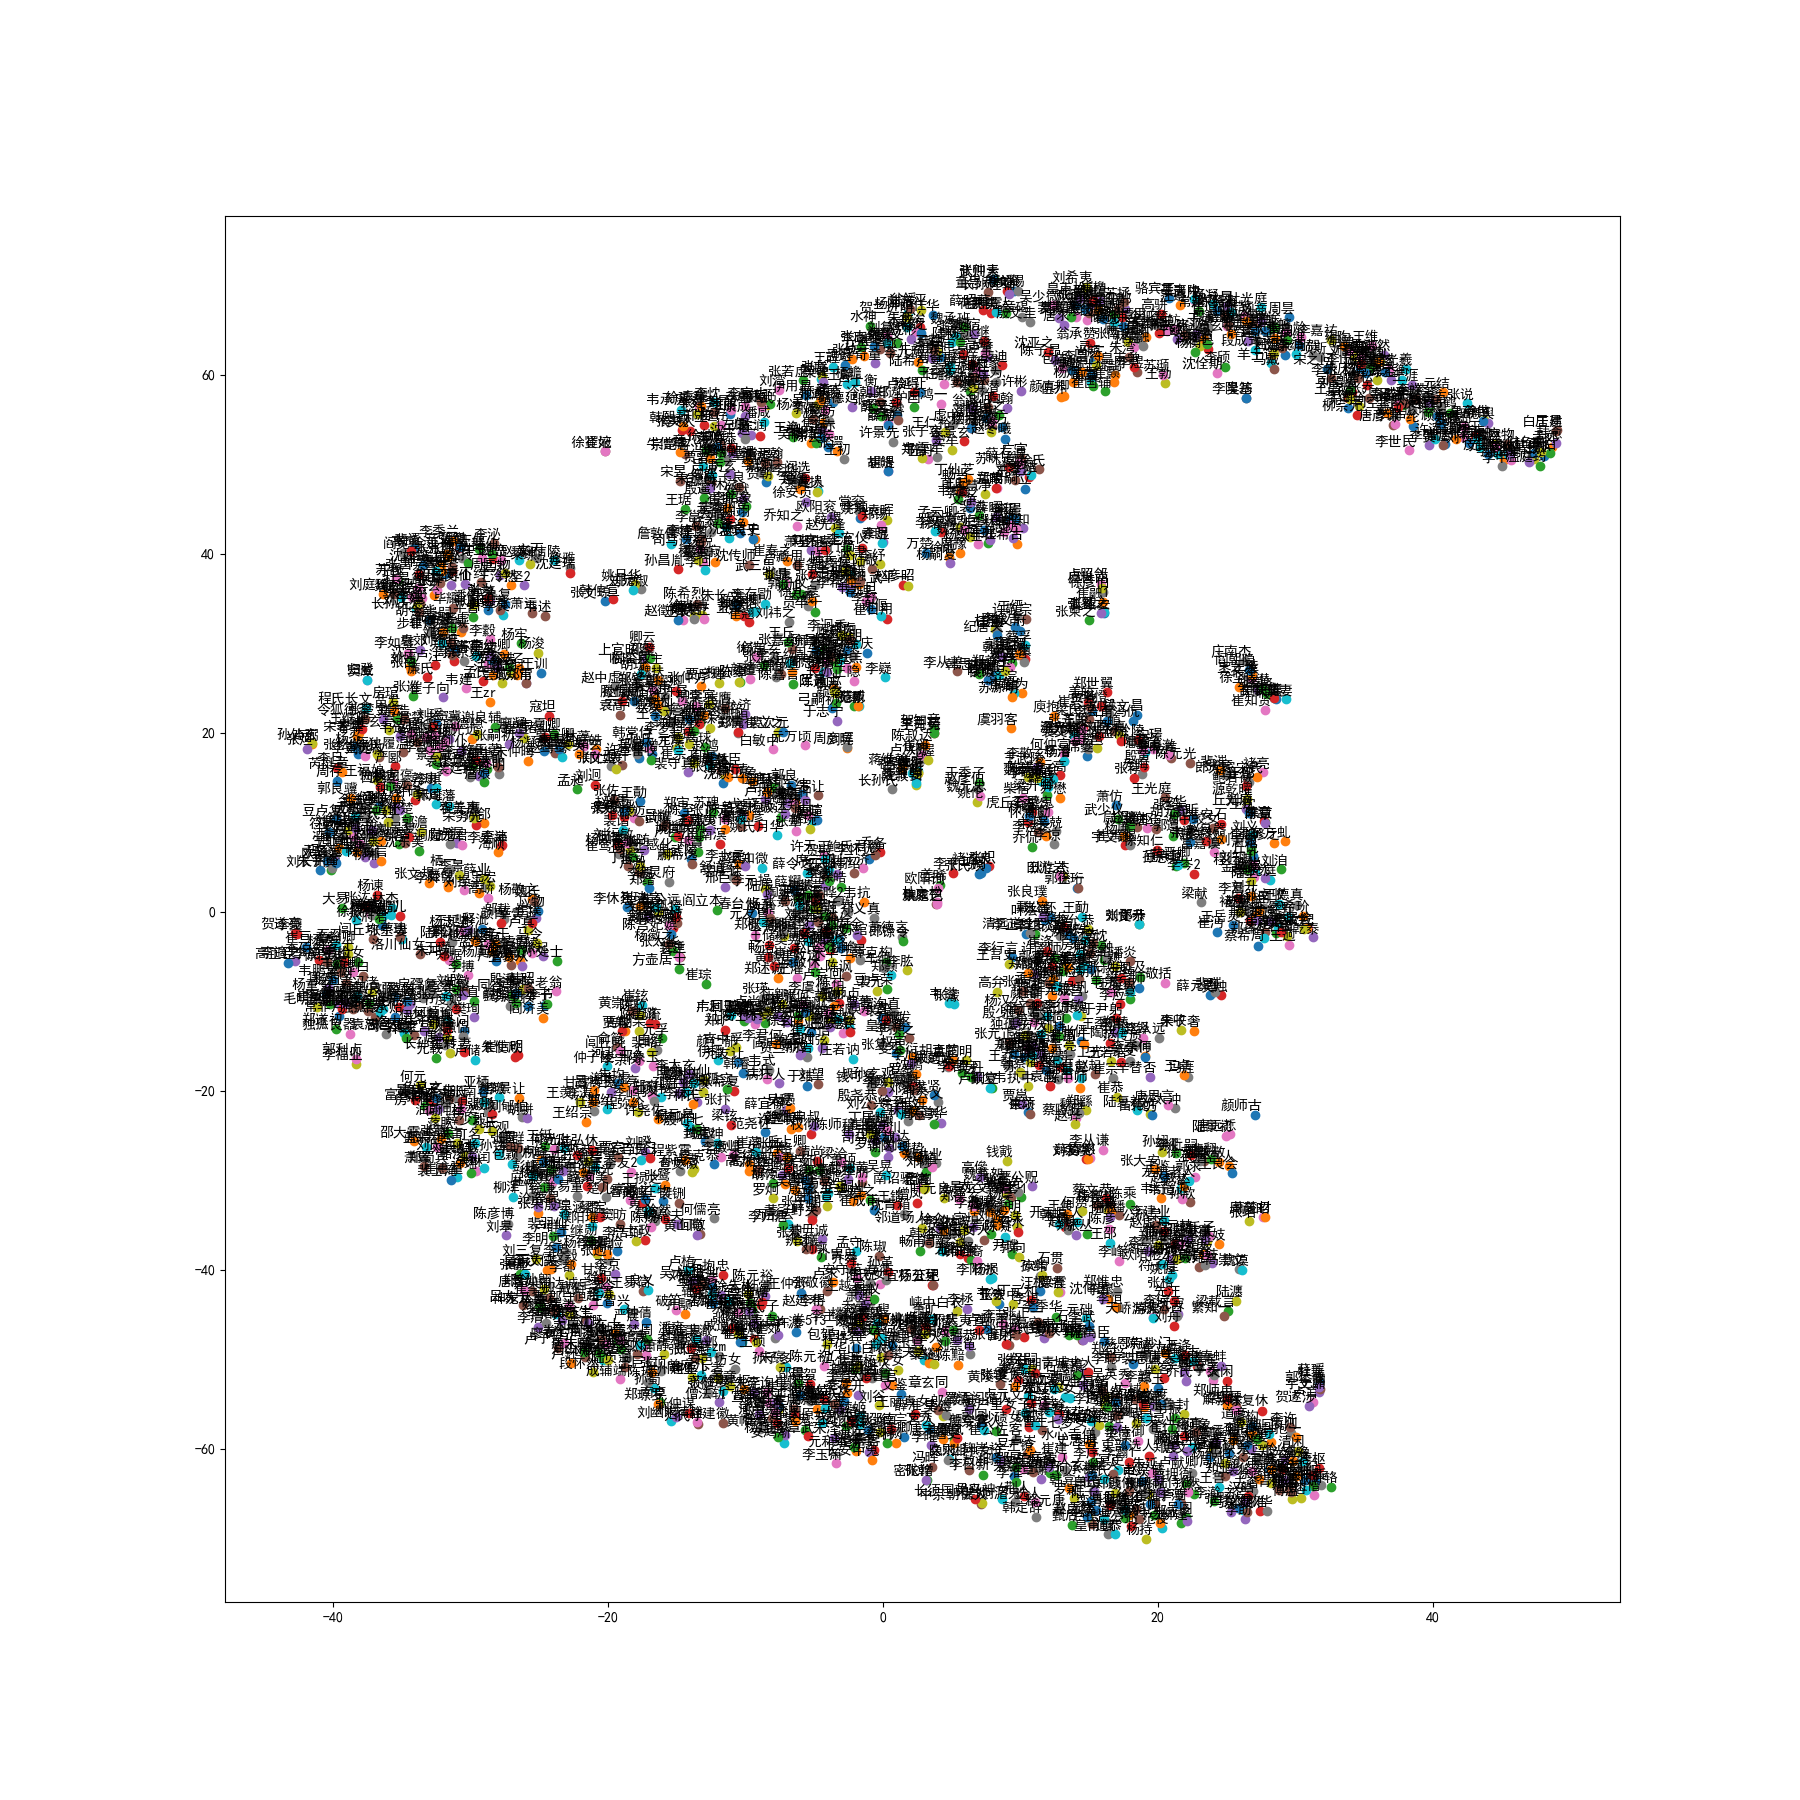
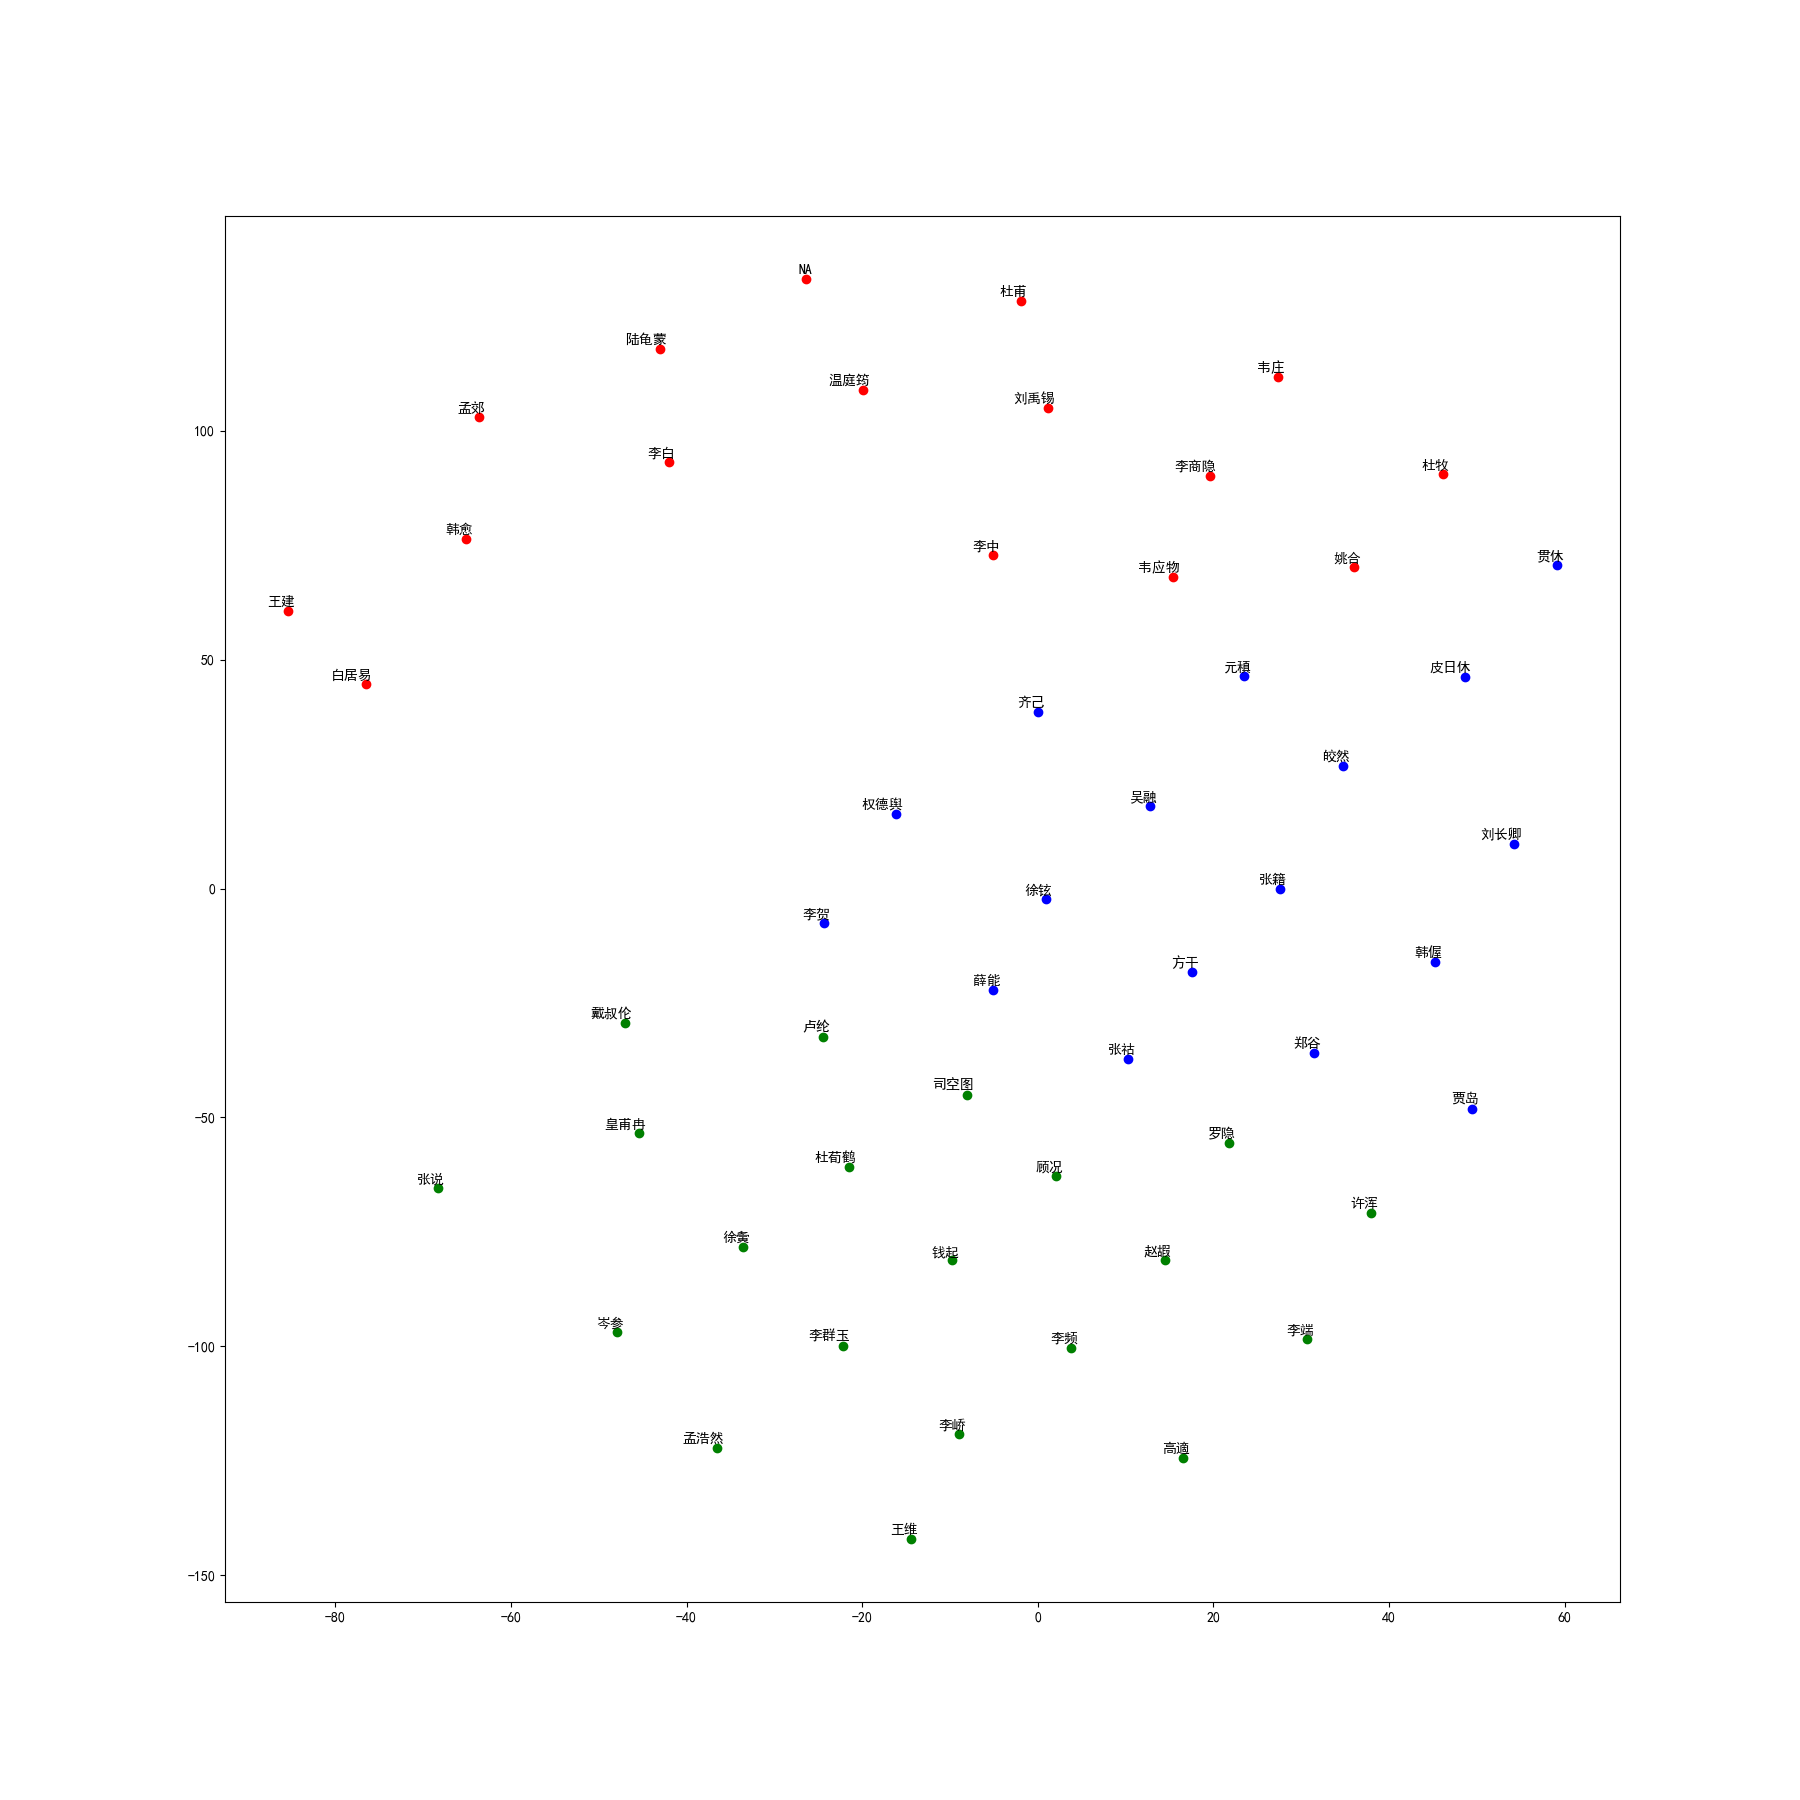
add clusting ,but clusting is not meaningful.

Changed region(s): [[0.1556, 0.1244, 0.8711, 0.8711], [0.6533, 0.2489, 0.6844, 0.28], [0.5911, 0.3111, 0.6222, 0.3422]]

diff --git a/atm_model.py b/atm_model.py
@@ -2,6 +2,7 @@ import logging
 
 logging.basicConfig(format='%(asctime)s : %(levelname)s : %(message)s', level=logging.INFO)
 from gensim.models import AuthorTopicModel
+from sklearn.cluster import KMeans
 from gensim import corpora
 from sklearn.manifold import TSNE
 
@@ -40,7 +41,7 @@ class AuthorMining:
             else:
                 author2doc[author].append(index)
 
-            doc = line.split('\t')[1].replace("，","").replace("。","").split(' ')
+            doc = line.split('\t')[1].replace("，", "").replace("。", "").split(' ')
             docs.append(doc)
             index += 1
         print(len(docs))
@@ -59,10 +60,10 @@ class AuthorMining:
         model = AuthorTopicModel.load('topicmodel/author_topic.model')
         # 每个作者的向量，每个作者向量维度不一样，对应的主题不一样，主题分别是概率。
         author_vecs = [model.get_author_topics(author) for author in model.id2author.values()]
-        print(len(author_vecs)) #2610个诗人，每个诗人有几个主题（<100）,之后对应的概率
+        print(len(author_vecs))  # 2610个诗人，每个诗人有几个主题（<100）,之后对应的概率
         for author in author_vecs:
             print(author, len(author))  # 每个作者身上的主题个数不同
-        #介绍每位作者
+        # 介绍每位作者
         authors = model.id2author.values()
         print(len(authors), authors)
         # 显示某位作者的向量
@@ -73,26 +74,35 @@ class AuthorMining:
 
     '''对作者进行聚类分析'''
 
-    def author_cluster(self):
+    def tsne_clusting(self):
         model = AuthorTopicModel.load('topicmodel/author_topic.model')
         tsne = TSNE(n_components=2, random_state=0)
-        smallest_author = 200
+        smallest_author = 200  # 想看最少写作数量多少的诗人
         authors = [model.author2id[a] for a in model.author2id.keys() if len(model.author2doc[a]) >= smallest_author]
         print(authors)
         embeddings = tsne.fit_transform(model.state.gamma[authors, :])
-        print(embeddings)
-        authors = list(model.id2author.values())
-        # print(authors)
-        labels = ['李世民', '李白', '白居易', '武则天', '白居易', '杜甫', '刘禹锡', '武元衡', '权德舆']#对应的需要查找某几个诗人的方法
-        author_ids = [model.author2id[author] for author in labels]
-        print(author_ids)
-        author_embs = tsne.fit_transform([embeddings[i] for i in author_ids])
-        print(author_embs)
-        print(authors, author_ids, author_embs)
-        self.plot_with_labels(embeddings, authors)#在这里该以下对应诗人的
+        # print(model.state.gamma[authors, :])
+        # print(embeddings)
+        authors_list = [model.id2author[k] for k in authors]
 
+        print(authors_list)
+
+        # plt.scatter(embeddings[:, 0], embeddings[:, 1], c=y_predict)
         #
+        # plt.show()
+
+        # labels = ['李世民', '李白', '白居易', '武则天', '白居易', '杜甫', '刘禹锡', '武元衡', '权德舆']#对应的需要查找某几个诗人的方法
+        # author_ids = [model.author2id[author] for author in labels]
+        # print(author_ids)
+        # author_embs = tsne.fit_transform([embeddings[i] for i in author_ids])
+        # print(author_embs)
+        # print(authors, author_ids, author_embs)
+
+        self.plot_with_labels(embeddings, authors_list)  # 在这里该以下对应诗人的
+
         # plot_only = 150
+        # embeddings = model.state.gamma[authors, :plot_only]
+        #
         # low_dim_embs = tsne.fit_transform(embeddings[:plot_only, :])
         # labels = [authors[i] for i in range(plot_only)]
         # self.plot_with_labels(low_dim_embs, labels)
@@ -103,10 +113,33 @@ class AuthorMining:
         plt.rcParams['font.sans-serif'] = ['SimHei']  # 用来正常显示中文标签
         plt.rcParams['axes.unicode_minus'] = False  # 用来正常显示负号
         plt.figure(figsize=(18, 18))  # in inches
-        for i, label in enumerate(labels):
+        kmeans = KMeans(n_clusters=3, random_state=10)
+        kmeans.fit(low_dim_embs)
+        y_predict = kmeans.predict(low_dim_embs)
+        color_list=[]
+        for y in y_predict:
+            if y ==0:
+                color ="r"
+            elif y==1:
+                color="b"
+            elif y==2:
+                color="g"
+            color_list.append(color)
+
+        # plt.scatter(low_dim_embs[:, 0], low_dim_embs[:, 1], c=y_predict)
+        # plt.annotate(labels,
+        #              xy=(low_dim_embs[:, 0], low_dim_embs[:, 1]),
+        #              xytext=(5, 2),
+        #              textcoords='offset points',
+        #              ha='right',
+        #              va='bottom')
+        # plt.show()
+
+        for i, (label, y_p) in enumerate(zip(labels, color_list)):
             # print(labels)
             x, y = low_dim_embs[i, :]
-            plt.scatter(x, y)
+            plt.scatter(x, y, c=y_p)
+            # print(y_p)
             plt.annotate(label,
                          xy=(x, y),
                          xytext=(5, 2),
@@ -119,9 +152,10 @@ class AuthorMining:
 
 def main():
     handler = AuthorMining("save/ats_words_list.txt")
-    handler.atm_model()
+    # handler.atm_model()
     # handler.test_model()
-    handler.author_cluster()
+    handler.tsne_clusting()
+    # handler.test_model()
 
 
 if __name__ == '__main__':
